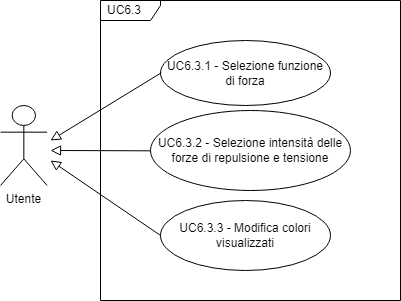
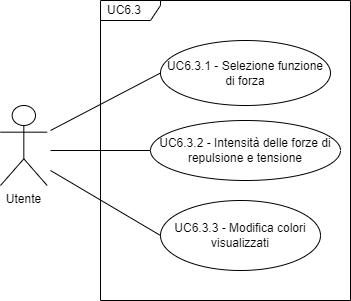
fix frecce + UC?

diff --git a/src/documenti/esterni/AdR/contenuti/casi_uso.tex b/src/documenti/esterni/AdR/contenuti/casi_uso.tex
@@ -142,11 +142,11 @@
 \end{itemize}
 
 
-\section{UC - Personalizzazione visualizzazione scelta}
+\section{UC? - Personalizzazione visualizzazione scelta}
 \begin{figure}[H]
   \centering
   \includegraphics[width=\textwidth]{uc6.png}
-  \caption{UC - Personalizzazione visualizzazione}
+  \caption{UC? - Personalizzazione visualizzazione}
 \end{figure}
 
 \begin{itemize}
@@ -161,21 +161,21 @@
   \end{enumerate}
   \item \textbf{Generalizzazioni}:
     \begin{enumerate}
-      \item Personalizzazione \textit{Scatter Plot} [UC.1];
-      \item Personalizzazione \textit{Parallel Coordinates} [UC.2];
-      \item Personalizzazione \textit{Force-Directed Graph} [UC.3];
-      \item Personalizzazione \textit{Sankey Diagram} [UC.4].
+      \item Personalizzazione \textit{Scatter Plot} [UC?.1];
+      \item Personalizzazione \textit{Parallel Coordinates} [UC?.2];
+      \item Personalizzazione \textit{Force-Directed Graph} [UC?.3];
+      \item Personalizzazione \textit{Sankey Diagram} [UC?.4].
     \end{enumerate}
 \end{itemize}
 
-\subsection{UC.1 - Personalizzazione Scatter Plot}
-\subsection{UC.2 - Personalizzazione Parallel Coordinates}
+\subsection{UC?.1 - Personalizzazione Scatter Plot}
+\subsection{UC?.2 - Personalizzazione Parallel Coordinates}
 
-\subsection{UC.3 - Personalizzazione Force-Directed Graph}
+\subsection{UC?.3 - Personalizzazione Force-Directed Graph}
 \begin{figure}[H]
   \centering
   \includegraphics[width=\textwidth]{uc6.3.png}
-  \caption{UC.3 - Personalizzazione Force-Directed Graph}
+  \caption{UC?.3 - Personalizzazione Force-Directed Graph}
 \end{figure}
 \begin{itemize}
     \item \textbf{Descrizione:} l'utente ha la possibilità di apportare modificare a vari aspetti del grafico;
@@ -186,15 +186,15 @@
     \begin{enumerate}
       \item L'utente può decidere di:
     \begin{enumerate}
-      \item Selezionare la funzione di forza [UC.3.1];
-      \item Selezionare l'intensità delle forze di repulsione e tensione [UC.3.2];
-      \item Modificare i colori visualizzati [UC.3.3];
+      \item Selezionare la funzione di forza [UC?.3.1];
+      \item Selezionare l'intensità delle forze di repulsione e tensione [UC?.3.2];
+      \item Modificare i colori visualizzati [UC?.3.3];
     \end{enumerate}
     \item Le modifiche scelte vengono visualizzate.
   \end{enumerate}
   \end{itemize}
 
-  \subsubsection{UC.3.1 - Selezione funzione di forza}
+  \subsubsection{UC?.3.1 - Selezione funzione di forza}
   \begin{itemize}
     \item \textbf{Descrizione:} l'utente ha la possibilità di scegliere quale funzione di forza adottare;
     \item \textbf{Attore primario:} utente;
@@ -207,7 +207,7 @@
     \end{enumerate}
   \end{itemize}
 
-  \subsubsection{UC.3.2 - Selezione intensità delle forze di repulsione e tensione}
+  \subsubsection{UC?.3.2 - Selezione intensità delle forze di repulsione e tensione}
   \begin{itemize}
     \item \textbf{Descrizione:} l'utente ha la possibilità di scegliere quale intensità delle forze attrattive e di tensione adottare;
     \item \textbf{Attore primario:} utente;
@@ -220,7 +220,7 @@
     \end{enumerate}
   \end{itemize}
 
-  \subsubsection{UC.3.3 - Modifica colori visualizzati}
+  \subsubsection{UC?.3.3 - Modifica colori visualizzati}
   \begin{itemize}
     \item \textbf{Descrizione:} l'utente ha la possibilità di scegliere quali colori adottare;
     \item \textbf{Attore primario:} utente;
@@ -234,7 +234,7 @@
   \end{itemize}
 
 
-\subsection{UC.4 - Personalizzazione Sankey Diagram}
+\subsection{UC?.4 - Personalizzazione Sankey Diagram}
 
 
 \section{UC7 - Visualizzazione errore scelta filtri}

diff --git a/src/documenti/esterni/AdR/contenuti/requisiti.tex b/src/documenti/esterni/AdR/contenuti/requisiti.tex
@@ -33,13 +33,13 @@ Il gruppo \textit{MERL} dopo un'attenta analisi ha individuato i seguenti requis
     \rowcolor[HTML]{EFEFEF}
     RF.1.5.4 & L'utente deve poter selezionare il grafico \textit{Sankey Diagram} & Obbligatorio & Capitolato - UC5.4 \\ \hline
     \rowcolor[HTML]{C0C0C0}
-    RF.1.6 & L'utente deve poter personalizzare la visualizzazione scelta & Obbligatorio & UC6 \\ \hline
+    RF.1.? & L'utente deve poter personalizzare la visualizzazione scelta & Obbligatorio & UC? \\ \hline
     \rowcolor[HTML]{EFEFEF}
-    RF.2.6.3.1 & L'utente deve poter scegliere la funzione di forza & Desiderabile & UC6.3 \\ \hline
+    RF.2.?.3.1 & L'utente deve poter scegliere la funzione di forza & Desiderabile & UC?.3 \\ \hline
     \rowcolor[HTML]{C0C0C0}
-    RF.1.6.3.2 & L'utente deve poter scegliere l'intensità delle forze di tensione e repulsione & Obbligatorio & UC6.3 \\ \hline
+    RF.1.?.3.2 & L'utente deve poter scegliere l'intensità delle forze di tensione e repulsione & Obbligatorio & UC?.3 \\ \hline
     \rowcolor[HTML]{EFEFEF}
-    RF.1.6.3.3 & L'utente deve poter scegliere gli stili per la visualizzazione del grafico & Obbligatorio & UC6.3 \\ \hline
+    RF.1.?.3.3 & L'utente deve poter scegliere gli stili per la visualizzazione del grafico & Obbligatorio & UC?.3 \\ \hline
     \rowcolor[HTML]{C0C0C0}
     RF.1.7 & Visualizzazione messaggio di errore in caso di filtri scelti in modo scorretto & Obbligatorio & UC7 \\ \hline
     \rowcolor[HTML]{EFEFEF}
@@ -130,9 +130,9 @@ Il gruppo \textit{MERL} non ha individuato alcun requisito prestazionale durante
     \rowcolor[HTML]{C0C0C0}
     UC5.4 & RF.1.5.4 \\ \hline
     \rowcolor[HTML]{EFEFEF}
-    UC6 & RF.1.6 \\ \hline
+    UC? & RF.1.? \\ \hline
     \rowcolor[HTML]{C0C0C0}
-    UC6.3 & RF.2.6.3.1 RF.1.6.3.2 RF.1.6.3.3  \\ \hline
+    UC?.3 & RF.2.?.3.1 RF.1.?.3.2 RF.1.?.3.3  \\ \hline
     \rowcolor[HTML]{EFEFEF}
     UC7 & RF.1.7 \\ \hline
     \rowcolor[HTML]{C0C0C0}
@@ -174,13 +174,13 @@ Il gruppo \textit{MERL} non ha individuato alcun requisito prestazionale durante
     \rowcolor[HTML]{EFEFEF}
     RF.1.5.4 & Capitolato - UC5.4 \\ \hline
     \rowcolor[HTML]{C0C0C0}
-    RF.1.6 & UC6 \\ \hline
+    RF.1.? & UC? \\ \hline
     \rowcolor[HTML]{EFEFEF}
-    RF.2.6.3.1 & UC6.3 \\ \hline
+    RF.2.?.3.1 & UC?.3 \\ \hline
     \rowcolor[HTML]{C0C0C0}
-    RF.1.6.3.2 & UC6.3 \\ \hline
+    RF.1.?.3.2 & UC?.3 \\ \hline
     \rowcolor[HTML]{EFEFEF}
-    RF.1.6.3.3 & UC6.3 \\ \hline
+    RF.1.?.3.3 & UC?.3 \\ \hline
     \rowcolor[HTML]{C0C0C0}
     RF.1.7 & UC7 \\ \hline
     \rowcolor[HTML]{EFEFEF}
